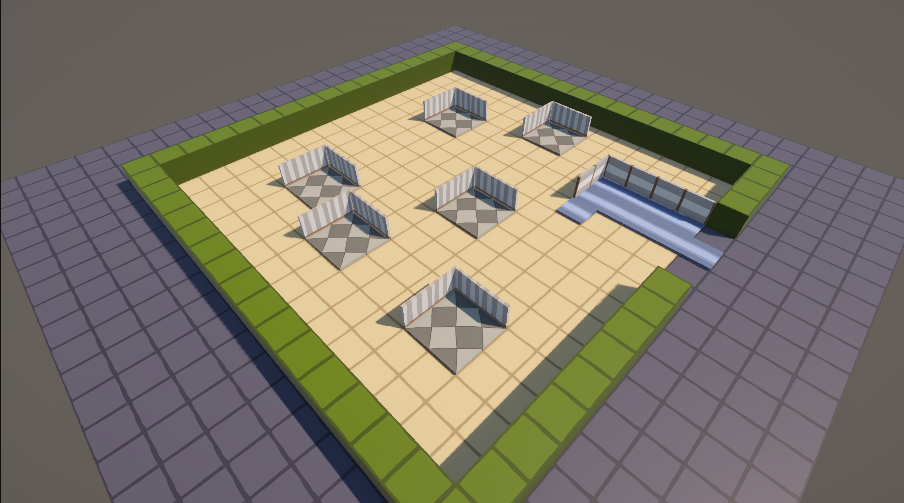
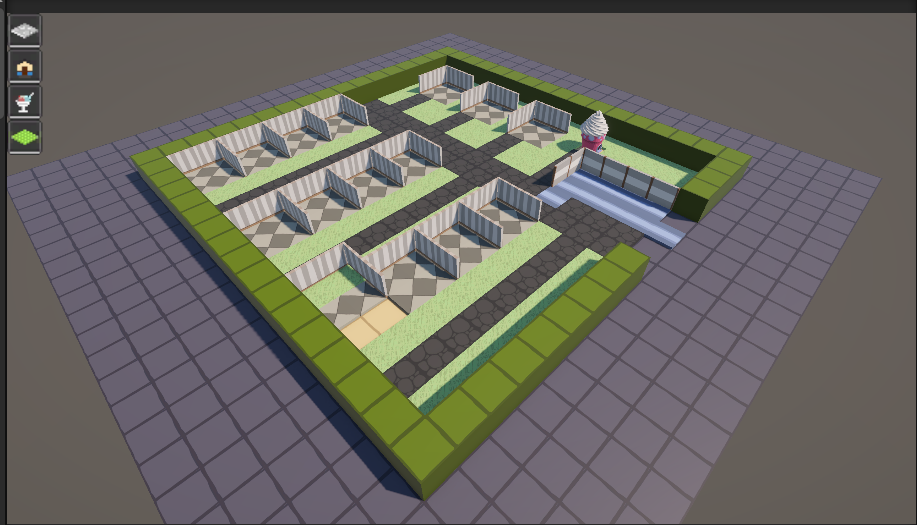
latest

diff --git a/PlayerCamera.cs b/PlayerCamera.cs
@@ -1,6 +1,7 @@
 using Unity.VisualScripting;
 using UnityEditor;
 using UnityEngine;
+using UnityEngine.EventSystems;
 using UnityEngine.InputSystem;
 using UnityEngine.UIElements;
 
@@ -11,39 +12,33 @@ public class PlayerCamera : MonoBehaviour
     public float mouseRange = 100f;
     public LayerMask floorLayer;
 
-
-    [Header("BuildingTypes")]
-    public BuildingType tileBuilding;
-    public BuildingType houseBuilding;
-    public BuildingType icecreamBuilding;
-
     [Header("Ghost")]
     public Material ghostMaterial;
     private BuildingType selectedBuilding;
     private GameObject ghostInstance;
     private GhostIndicator ghostScript;
 
+    public static PlayerCamera Instance;
+
+    void Awake()
+    {
+        if (Instance == null || Instance != this) Instance = this;
+    }
+
     void Update()
-    { 
-        if (Input.GetMouseButtonDown(1)) {
-            if (ghostInstance == null) {
-                CreateGhost();
-            } else
-            {
-                DestroyGhost();
-            }
-        }
+    {
+        if (Input.GetMouseButtonDown(1) && ghostInstance != null) DestroyGhost();
 
-        if (Input.GetMouseButtonDown(0) && ghostInstance != null)
+        if (Input.GetMouseButtonDown(0) && ghostInstance != null && ghostScript != null)
         {
-            if (ghostScript != null)
-            {
-                Vector2Int currentTile = ghostScript.currentTile;
+            // ignore UI
+            if (EventSystem.current.IsPointerOverGameObject()) return;
 
-                if (!ghostScript.isTileOccupied(ghostScript.currentTile))
-                {
-                    ghostScript.PlacePrefab(selectedBuilding, currentTile);
-                }
+            Vector2Int currentTile = ghostScript.currentTile;
+
+            if (!ghostScript.isTileOccupied(ghostScript.currentTile))
+            {
+                ghostScript.PlacePrefab(selectedBuilding, currentTile);
             }
         }
 
@@ -52,10 +47,12 @@ public class PlayerCamera : MonoBehaviour
         MoveCamera();
     }
 
-    private void CreateGhost()
+    public void CreateGhost(BuildingType building)
     {
-        selectedBuilding = houseBuilding; // TODO: hardcoded for now
-        ghostInstance = Instantiate(selectedBuilding.prefab);
+        if (ghostInstance != null) return; // prevent multiple ghosts
+
+        this.selectedBuilding = building;
+        this.ghostInstance = Instantiate(building.prefab);
 
         Renderer[] renderers = ghostInstance.GetComponentsInChildren<Renderer>();
         foreach (Renderer r in renderers)
@@ -68,15 +65,15 @@ public class PlayerCamera : MonoBehaviour
             r.materials = mats;
         }
 
-        ghostScript = ghostInstance.AddComponent<GhostIndicator>();
+        this.ghostScript = ghostInstance.AddComponent<GhostIndicator>();
     }
 
     private void DestroyGhost()
     {
         Destroy(ghostInstance);
-        ghostInstance = null;
-        selectedBuilding = null;
-        ghostScript = null;
+        this.ghostInstance = null;
+        this.selectedBuilding = null;
+        this.ghostScript = null;
     }
 
     private void MoveGhost()

diff --git a/GhostIndicator.cs b/GhostIndicator.cs
@@ -1,0 +1,57 @@
+using JetBrains.Annotations;
+using NUnit.Framework;
+using System.Collections.Generic;
+using UnityEngine;
+
+public class GhostIndicator : MonoBehaviour
+{
+    private List<Material> _materials = new List<Material>();
+
+    public Vector2Int currentTile;
+
+    public BuildingType selectedBuilding;
+
+    void Awake()
+    {
+        Renderer[] renderers = GetComponentsInChildren<Renderer>();
+        foreach (Renderer r in renderers)
+        {
+            foreach (Material m in r.materials)
+            {
+                _materials.Add(m);
+            }
+        }
+    }
+
+    public bool isTileOccupied(Vector2Int position)
+    {
+        return GridManager.Instance.isTileOccupied(position);
+    }
+
+    public void MoveToTile(Vector2Int position)
+    {
+        // color
+        foreach (Material m in _materials)
+        {
+            Color c = (isTileOccupied(position)) ? Color.red : Color.green;
+            c.a = 0.7f;
+            m.color = c;
+        }
+
+        // position
+        transform.position = TileToVector3(position);
+        currentTile = position;
+    }
+
+    public void PlacePrefab(BuildingType building, Vector2Int tile)
+    {
+        Vector3 position = TileToVector3(tile);
+        Instantiate(building.prefab, position, Quaternion.identity);
+        GridManager.Instance.claimTile(currentTile); // TODO: footprint
+    }
+
+    private Vector3 TileToVector3(Vector2Int tile)
+    {
+        return new Vector3(tile.x, 0f, tile.y);
+    }
+}

diff --git a/Tile.cs b/Tile.cs
@@ -4,10 +4,12 @@ public class Tile
 {
     public bool isOccupied;
     public bool isWalkable;
+    public bool isGrass;
 
-    public Tile(bool isOccupied, bool isWalkable)
+    public Tile(bool isOccupied, bool isWalkable, bool isGrass)
     {
         this.isOccupied = isOccupied;
         this.isWalkable = isWalkable;
+        this.isGrass = isGrass;
     }
 }

diff --git a/GridManager.cs b/GridManager.cs
@@ -23,7 +23,7 @@ public class GridManager : MonoBehaviour
         {
             for (int y = 0; y < COLS_MAX; y++)
             {
-                _grid[x, y] = new Tile(false, false);
+                _grid[x, y] = new Tile(false, false, false);
             }
         }
     }

diff --git a/HUDManager.cs b/HUDManager.cs
@@ -1,0 +1,10 @@
+using Unity.VisualScripting;
+using UnityEngine;
+
+public class HUDManager : MonoBehaviour
+{
+    public void OnClick(BuildingType b)
+    {
+        PlayerCamera.Instance.CreateGhost(b);
+    }
+}

diff --git a/BuildingType.cs b/BuildingType.cs
@@ -6,4 +6,6 @@ public class BuildingType : ScriptableObject
     public Vector2Int size;
     public string buildingName;
     public GameObject prefab;
+    public bool canPlaceOnGrass;
+    // isGrass
 }

diff --git a/README.md b/README.md
@@ -1,3 +1,4 @@
 # Unity Resort Empire Remake  
 remaking the flash game resort empire in 3D with unity  
+
 ![thumbnail](thumbnail.PNG)
